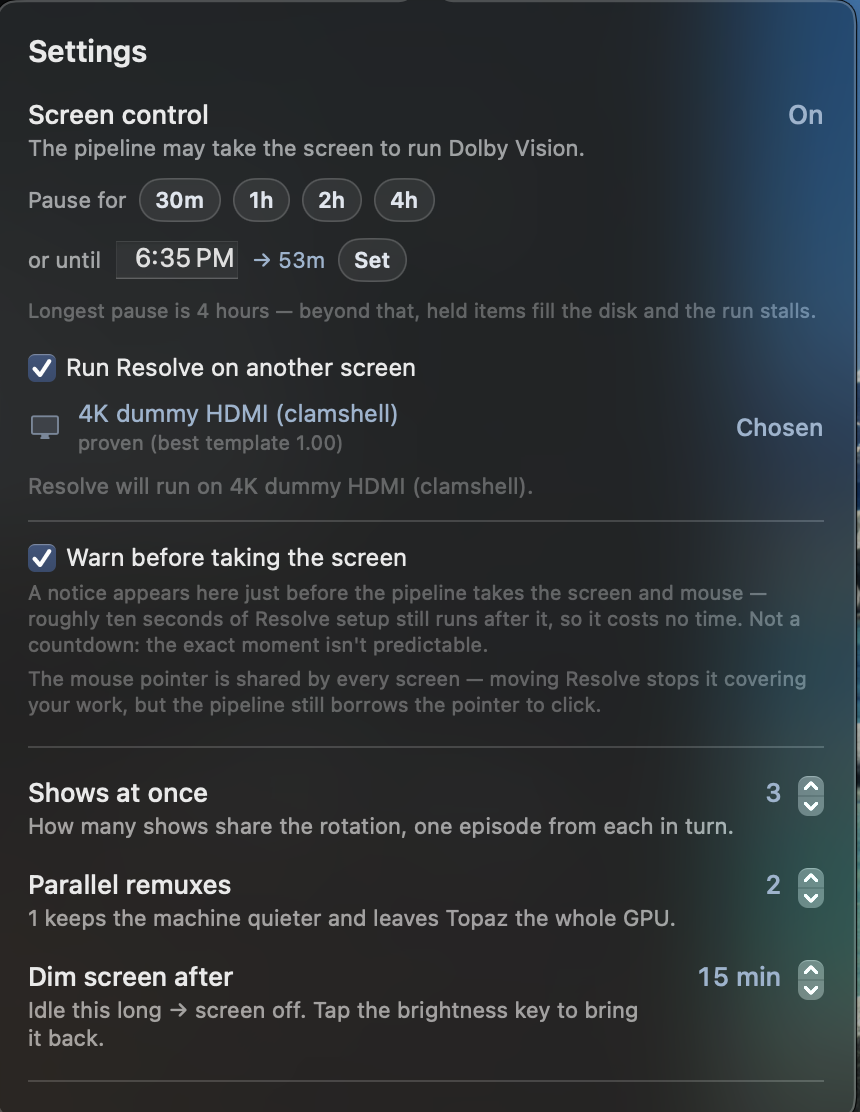
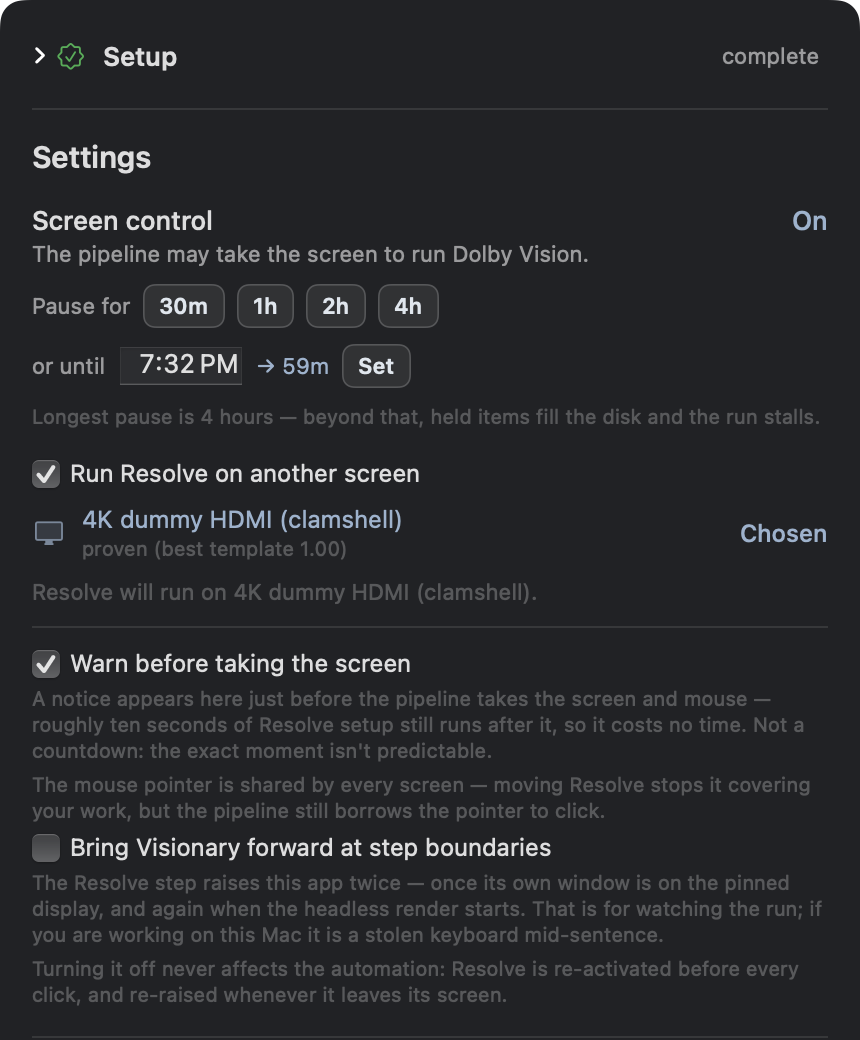
README screenshots retaken from the live app; `Visionary --snapshots DIR` takes them
User-dictated 2026-09-30: the new top screenshot (the user's) and new shots of the app. The
README's card screenshots — TV queue, Movies, YouTube, Scratch & power, Settings — are rendered
from the live dashboard state by a new snapshot mode: a second, windowless process of the same app
binary that only reads the loopback API, lays each card out at the window's real width in an
offscreen window on the main screen (2x), draws it with cacheDisplay, and exits. The window in use
is never touched — no tab flips, no popover, no focus. The app draws no system materials, so the
offscreen render is what the window shows. Two small hooks: the "Next up" list can be forced open
for a render (snapshotExpanded), and TheatreStage is reusable as the cards' backdrop.

The two-lane remux shot cannot be retaken until two remuxes next run together; its old-logo header
is cropped off and its caption says it is an earlier build. Captions now match the new images
(the Movies one describes the source-named filters and the DV 7 lane).

diff --git a/macapp/Snapshots.swift b/macapp/Snapshots.swift
@@ -1,0 +1,92 @@
+import AppKit
+import SwiftUI
+
+// `Visionary --snapshots DIR` renders the README's card screenshots from the LIVE dashboard state
+// and exits (user-dictated 2026-09-30: "take other new screenshots of the app").
+//
+// It is a second process that only READS the running app's loopback API — no server of its own, no
+// window shown, no Dock icon, no POST — so the window in use is never touched: no tab flips, no
+// popover opens, no focus is taken. Each card is laid out at the window's real content width in an
+// offscreen window on the main screen (so it renders at the display's 2x scale) and drawn with
+// cacheDisplay. The app draws no system materials, so an offscreen render is what the window shows.
+
+/// Opens collapsible sections (the "Next up" list) for a snapshot; false everywhere else.
+private struct SnapshotExpandKey: EnvironmentKey { static let defaultValue = false }
+extension EnvironmentValues {
+    var snapshotExpanded: Bool {
+        get { self[SnapshotExpandKey.self] }
+        set { self[SnapshotExpandKey.self] = newValue }
+    }
+}
+
+@MainActor
+enum Snapshots {
+    static let cardWidth: CGFloat = 1040          // the window's 1080 less its 20 pt gutters
+
+    static func run(_ dir: String) async {
+        try? FileManager.default.createDirectory(atPath: dir, withIntermediateDirectories: true)
+        let store = AppStore()
+        await store.refresh()
+        await store.fetchSeries()
+        await store.fetchMovies()
+        await store.fetchChannels()
+        guard store.state != nil else {
+            FileHandle.standardError.write("snapshots: the dashboard at 127.0.0.1:8765 did not answer\n".data(using: .utf8)!)
+            return
+        }
+        func card<V: View>(_ v: V) -> some View {
+            v.padding(.horizontal, 20).padding(.vertical, 16)
+                .frame(width: cardWidth + 40)
+                .background(TheatreStage(scrollY: 0))
+        }
+        store.modeOverride = "tv"
+        await shot(card(SeriesCard().environment(\.snapshotExpanded, true)), store, "\(dir)/queue.png")
+        store.modeOverride = "movie"
+        await shot(card(SeriesCard()), store, "\(dir)/movies.png")
+        store.modeOverride = "youtube"
+        await shot(card(SeriesCard()), store, "\(dir)/youtube.png")
+        store.modeOverride = nil
+        await shot(card(HStack(alignment: .top, spacing: 16) { ScratchPowerCard(); ScratchContentsCard() }),
+                   store, "\(dir)/scratch.png")
+        await shot(SettingsPopover()
+                       .background(RoundedRectangle(cornerRadius: 12, style: .continuous)
+                                       .fill(Color(.displayP3, red: 0.13, green: 0.135, blue: 0.145))),
+                   store, "\(dir)/settings.png", fixedWidth: 430)
+        await shot(card(PipelineCard()), store, "\(dir)/pipeline.png")
+    }
+
+    /// Lay `view` out at its natural height for the width, in an offscreen window on the main screen,
+    /// and write it as a PNG at the screen's backing scale.
+    static func shot<V: View>(_ view: V, _ store: AppStore, _ path: String,
+                              fixedWidth: CGFloat? = nil) async {
+        let root = view.environmentObject(store)
+            .environment(\.colorScheme, .dark)
+            .tint(Color.brand)
+            .fixedSize(horizontal: fixedWidth == nil, vertical: true)
+        let host = NSHostingView(rootView: root)
+        host.appearance = NSAppearance(named: .darkAqua)
+        let size = host.fittingSize
+        let w = fixedWidth ?? size.width, h = size.height
+        let screen = NSScreen.main?.visibleFrame ?? NSRect(x: 0, y: 0, width: 1600, height: 1000)
+        let win = NSWindow(contentRect: NSRect(x: screen.minX, y: screen.minY, width: w, height: h),
+                           styleMask: [.borderless], backing: .buffered, defer: false)
+        win.appearance = NSAppearance(named: .darkAqua)
+        win.isOpaque = false
+        win.backgroundColor = .clear
+        win.contentView = host
+        host.frame = NSRect(x: 0, y: 0, width: w, height: h)
+        // Never ordered in: nothing appears on screen. A few run-loop turns let SwiftUI settle async
+        // layout (the chip bar measures itself, images decode) before the draw.
+        for _ in 0..<6 {
+            host.layoutSubtreeIfNeeded()
+            try? await Task.sleep(nanoseconds: 150_000_000)
+        }
+        guard let rep = host.bitmapImageRepForCachingDisplay(in: host.bounds) else { return }
+        host.cacheDisplay(in: host.bounds, to: rep)
+        if let png = rep.representation(using: .png, properties: [:]) {
+            try? png.write(to: URL(fileURLWithPath: path))
+            print("snapshot: \(path) \(rep.pixelsWide)x\(rep.pixelsHigh)")
+        }
+        win.contentView = nil
+    }
+}

diff --git a/macapp/Views.swift b/macapp/Views.swift
@@ -3791,29 +3791,30 @@ private struct UpNextView: View {
     var showSeries: Bool = false        // round-robin: tag each episode with which show it's from
     @EnvironmentObject var store: AppStore
     @State private var expanded = false
+    @Environment(\.snapshotExpanded) private var forceOpen      // Snapshots.swift: render it open
     @State private var confirmingVideoDelete: UpNextDTO? = nil   // a video awaiting skip/delete confirm
     var body: some View {
         VStack(alignment: .leading, spacing: 5) {
             Button { withAnimation(.easeInOut(duration: 0.15)) { expanded.toggle() } } label: {
                 HStack(spacing: 8) {
                     Text("Next up").foregroundStyle(.secondary)
-                    if !expanded, let first = items.first { row(first) }
+                    if !(expanded || forceOpen), let first = items.first { row(first) }
                     Spacer()
                     // Count SLOTS, not entries — a run of videos draws as one row, so
                     // "+N" has to match what expanding actually reveals.
                     let slots = Self.grouped(items).count
                     if slots > 1 {
-                        if !expanded {
+                        if !(expanded || forceOpen) {
                             Text("+\(slots - 1)").font(.system(size: 11)).foregroundStyle(.tertiary)
                         }
-                        Image(systemName: expanded ? "chevron.up" : "chevron.down")
+                        Image(systemName: (expanded || forceOpen) ? "chevron.up" : "chevron.down")
                             .font(.system(size: 10, weight: .semibold)).foregroundStyle(.secondary)
                     }
                 }
                 .font(.system(size: 13)).contentShape(Rectangle())
             }
             .buttonStyle(.plain).disabled(Self.grouped(items).count <= 1)
-            if expanded {
+            if expanded || forceOpen {
                 // Full list in processing order. Movies (only) get controls: ↑/↓ move them
                 // anywhere — including between episodes — and × removes them. CONSECUTIVE
                 // YOUTUBE VIDEOS COLLAPSE into ONE slot (they arrive in bursts and used to
@@ -4567,7 +4568,7 @@ private struct ScrollYKey: PreferenceKey {
 /// scrolling back up lets it settle (subtle parallax — the room feels physical).
 /// GPU: the glow layers are flattened once into a Metal texture (`drawingGroup`) and the
 /// scroll motion is a pure `.offset` transform — composited on the GPU, never re-rendered.
-private struct TheatreStage: View {
+struct TheatreStage: View {      // internal: Snapshots.swift paints cards on it
     var scrollY: CGFloat            // ScrollView content minY (0 at top, negative scrolled down)
     var body: some View {
         // scroll DOWN (minY negative) → the light LIFTS toward you and BRIGHTENS a touch

diff --git a/macapp/main.swift b/macapp/main.swift
@@ -585,6 +585,18 @@ final class DockProgressView: NSView {
 }
 
 MainActor.assumeIsolated {
+    // `--snapshots DIR`: render the README card screenshots from the running app's live state and
+    // exit (Snapshots.swift) — no server, no window, no Dock icon; the app in use is untouched.
+    if let i = CommandLine.arguments.firstIndex(of: "--snapshots") {
+        let dir = CommandLine.arguments.count > i + 1 ? CommandLine.arguments[i + 1] : "."
+        let app = NSApplication.shared
+        app.setActivationPolicy(.prohibited)
+        Task { @MainActor in
+            await Snapshots.run(dir)
+            exit(0)
+        }
+        app.run()
+    }
     let app = NSApplication.shared
     let delegate = AppDelegate()
     app.delegate = delegate                 // NSApplication.delegate is weak; the local

diff --git a/README.md b/README.md
@@ -30,7 +30,7 @@ Arm it in the evening; wake up to finished episodes.
 <p align="center">
   <img src="docs/assets/app-pipeline.png" alt="The Visionary dashboard: two episodes in flight at once — one upscaling in Topaz while the previous one's Dolby Vision™ remux runs beside it" width="820">
 </p>
-<p align="center"><sub><b>Two episodes in flight at once</b> — S05E02 upscaling in Topaz while S05E01's Dolby Vision™ remux runs beside it, each with its own segmented, resumable progress and its own estimate.</sub></p>
+<p align="center"><sub><b>Two episodes in flight at once</b> — S03E10 upscaling in Topaz while S03E09's Dolby Vision™ remux runs beside it, each with its own segmented, resumable progress and its own estimate.</sub></p>
 
 > [!IMPORTANT]
 > **Visionary drives the DaVinci Resolve interface by looking at the screen, and runs the
@@ -460,9 +460,9 @@ manual-only, set per show, movie or channel (as is the true-SDR output).
   uploads, cleanup and the prefetcher, so nothing whatsoever overlaps it.
 
 <p align="center">
-  <img src="docs/assets/dual-remux.png" alt="The pipeline card with two remux lanes running at once, and the header showing both percentages" width="900">
+  <img src="docs/assets/dual-remux.png" alt="The pipeline card with two remux lanes running at once" width="900">
 </p>
-<p align="center"><sub><b>Both remux lanes live</b> — each names its own episode and carries its own progress, segment counter and ETA; the header readout shows both at once. Lane 2 shows no elapsed clock because the engine keeps that bookkeeping on lane 1 only.</sub></p>
+<p align="center"><sub><b>Both remux lanes live</b> (an earlier build's pipeline card) — each names its own episode and carries its own progress, segment counter and ETA. Lane 2 shows no elapsed clock because the engine keeps that bookkeeping on lane 1 only.</sub></p>
 
 - **Storage-smart output**: the remux stage re-encodes the multi-gigabyte Resolve render
   under a hard peak-bitrate cap (x265 with a 50 Mbps ceiling on any one second), so a finished 4K
@@ -489,13 +489,13 @@ manual-only, set per show, movie or channel (as is the true-SDR output).
 
 | Round-robin queue | Guardrails |
 |:---:|:---:|
-| <img src="docs/assets/queue.png" alt="Series queue: round-robin shows, unwatched-first, the next nine items lined up" width="420"> | <img src="docs/assets/scratch.png" alt="Scratch and power: the 140 W gate, free space, live per-episode scratch usage" width="420"> |
+| <img src="docs/assets/queue.png" alt="Series queue: the current show and its settings, then the next items in the one global order, episodes with YouTube videos slotted in at the cadence" width="420"> | <img src="docs/assets/scratch.png" alt="Scratch and power: the 140 W gate, free space, live per-episode scratch usage" width="420"> |
 | <sub>Pick shows, keep <b>unwatched first</b>, round-robin several series; movies and YouTube slot in on their own cadence. A show's featurettes always run after its episodes, and a per-show <b>Upscale featurettes</b> toggle skips them entirely. While the pipeline is armed the per-item settings condense to <b>one line</b> — they can't change mid-run — but you can still queue more work, and drag a movie to whichever slot you want it to run in.</sub> | <sub>The <b>140 W power gate</b> and free-space headroom, plus live per-episode scratch usage broken out by artefact (Topaz segments, DV render, CFR source, source).</sub> |
 
 | Movies | YouTube |
 |:---:|:---:|
-| <img src="docs/assets/movies.png" alt="Movies tab: a queued movie showing its resolved output mode, audio and source-fate settings" width="420"> | <img src="docs/assets/youtube.png" alt="YouTube tab: subscriptions, the video-per-episode cadence, and per-channel filters" width="420"> |
-| <sub>Movies run whole when they come due. Each one shows its <b>resolved</b> output mode rather than "auto" — everything lands on <b>1000 nits</b> unless pinned otherwise (2000-nit is manual-only), and an HDR10 source keeps its original bits (unless its peaks breach the DV playback ceiling). The count is how many of your library's titles still have no DV.</sub> | <sub>Optional. Pulls from your own subscriptions and slots videos in on a cadence you set (here <b>1 per 3 TV episodes</b>), with per-channel scope and age filters. Channels can be paused individually.</sub> |
+| <img src="docs/assets/movies.png" alt="Movies tab: filters named for the source, and the Dolby Vision™ 7 → 8.1 lane converting profile 7 movies in place" width="420"> | <img src="docs/assets/youtube.png" alt="YouTube tab: subscriptions, the video-per-episode cadence, and per-channel filters" width="420"> |
+| <sub>Movies run whole when they come due. The filters say what each source is — <b>1080p & below</b>, <b>4K SDR</b>, <b>4K HDR10</b>, <b>DV 7</b>, <b>DV 8.1</b> — and a profile 7 movie goes to the <b>Dolby Vision™ 7 → 8.1</b> lane: converted in place with no re-encode, over the Ethernet, one transfer at a time (here 22 of 210 done). A queued movie shows its <b>resolved</b> output mode rather than "auto" — everything lands on <b>1000 nits</b> unless pinned otherwise (2000-nit is manual-only). The count is how many of your library's titles still have no DV.</sub> | <sub>Optional. Pulls from your own subscriptions and slots videos in on a cadence you set (here <b>4 per TV episode</b>), with per-channel scope and age filters. Channels can be paused individually.</sub> |
 
 <p align="center">
   <img src="docs/assets/settings.png" alt="Settings: screen control with a pause timer, choosing which display hosts Resolve, and the mouse-takeover notice" width="330">
